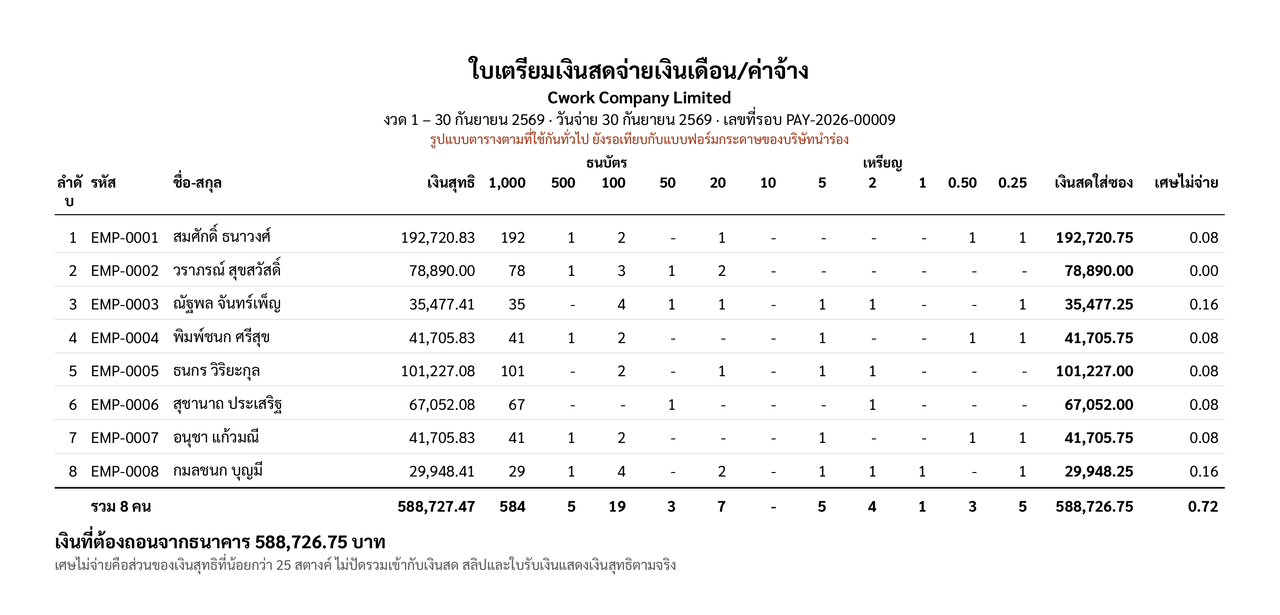
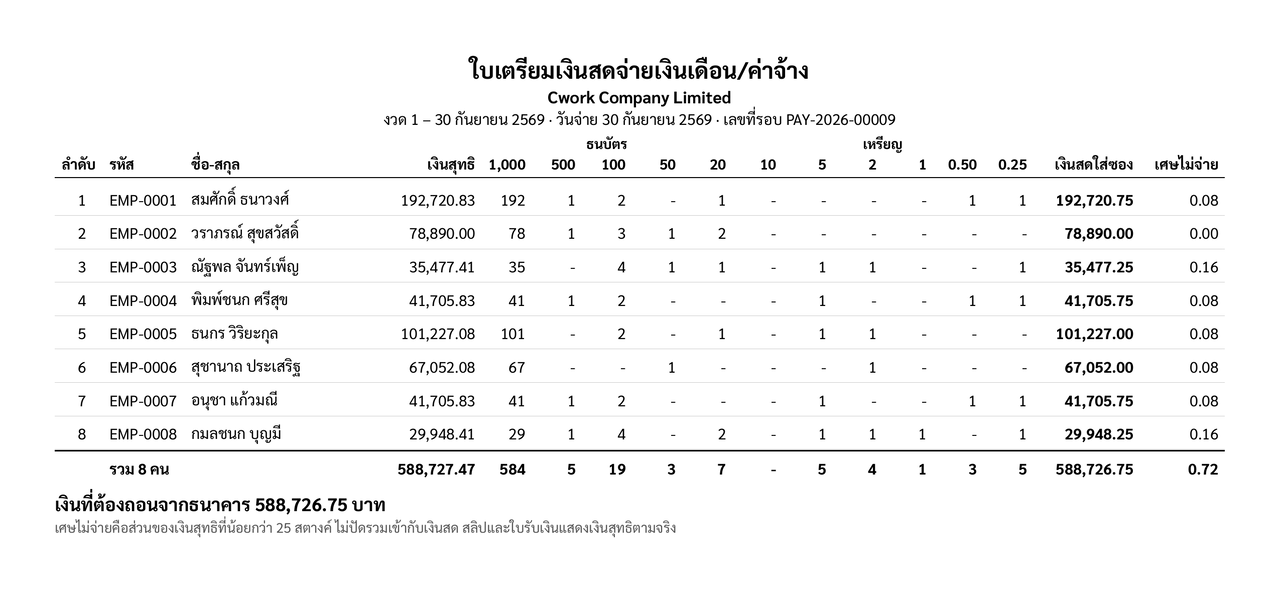
Finish what CW-096 left (CW-097)
- Retake the README's cash-sheet picture (Thai and English folders) now that
  the sheet carries no project note, and drop the sentence about the red
  line from both alt texts.
- Dark theme: danger buttons and the sidebar count use --text-inverse
  (4.5:1 or better in every theme); the contrast test covers them.
- Payroll warnings that send HR to the employee page name the card as the
  screen does, with a test that finds them by their English key.

Claude-Session: https://claude.ai/code/session_01A6A6oX85qwkQqRwjcjFy48

diff --git a/web/src/lib/i18n/messages.th.ts b/web/src/lib/i18n/messages.th.ts
@@ -444,13 +444,13 @@ export const thMessages: Record<string, string> = {
   'Whoever calculated this run cannot approve it. Another authorised person, such as the owner, signs in, opens this run and presses “Approve run”.':
     'ผู้ที่คำนวณรอบนี้อนุมัติเองไม่ได้ ให้ผู้มีสิทธิ์อีกคน เช่น เจ้าของกิจการ เข้าสู่ระบบ เปิดรอบนี้ แล้วกด “อนุมัติรอบ”',
   '{count} employee is not in this run because no pay is set for them from this period: {codes}. Set it on the employee’s page under Compensation, then calculate again.':
-    'มีพนักงาน {count} คนที่ไม่อยู่ในรอบนี้ เพราะยังไม่ได้ตั้งค่าจ้างตั้งแต่งวดนี้: {codes} ตั้งได้ที่หน้าพนักงาน หัวข้อค่าตอบแทน แล้วกดคำนวณอีกครั้ง',
+    'มีพนักงาน {count} คนที่ไม่อยู่ในรอบนี้ เพราะยังไม่ได้ตั้งค่าจ้างตั้งแต่งวดนี้: {codes} ตั้งได้ที่หน้าพนักงาน การ์ดค่าจ้าง แล้วกดคำนวณอีกครั้ง',
   '{count} employees are not in this run because no pay is set for them from this period: {codes}. Set it on each employee’s page under Compensation, then calculate again.':
-    'มีพนักงาน {count} คนที่ไม่อยู่ในรอบนี้ เพราะยังไม่ได้ตั้งค่าจ้างตั้งแต่งวดนี้: {codes} ตั้งได้ที่หน้าพนักงานแต่ละคน หัวข้อค่าตอบแทน แล้วกดคำนวณอีกครั้ง',
+    'มีพนักงาน {count} คนที่ไม่อยู่ในรอบนี้ เพราะยังไม่ได้ตั้งค่าจ้างตั้งแต่งวดนี้: {codes} ตั้งได้ที่หน้าพนักงานแต่ละคน การ์ดค่าจ้าง แล้วกดคำนวณอีกครั้ง',
   'Nobody is paid by the day for this period. A half-month period pays only employees with a daily wage; set it on the employee’s page under Compensation, then calculate again.':
-    'งวดนี้ไม่มีใครได้รับค่าจ้างรายวัน งวดครึ่งเดือนจ่ายเฉพาะพนักงานที่ตั้งค่าจ้างรายวันไว้ ตั้งได้ที่หน้าพนักงาน หัวข้อค่าตอบแทน แล้วกดคำนวณอีกครั้ง',
+    'งวดนี้ไม่มีใครได้รับค่าจ้างรายวัน งวดครึ่งเดือนจ่ายเฉพาะพนักงานที่ตั้งค่าจ้างรายวันไว้ ตั้งได้ที่หน้าพนักงาน การ์ดค่าจ้าง แล้วกดคำนวณอีกครั้ง',
   'Nobody has a monthly salary set for this period. Set it on the employee’s page under Compensation, then calculate again.':
-    'งวดนี้ยังไม่มีใครตั้งเงินเดือนไว้ ตั้งได้ที่หน้าพนักงาน หัวข้อค่าตอบแทน แล้วกดคำนวณอีกครั้ง',
+    'งวดนี้ยังไม่มีใครตั้งเงินเดือนไว้ ตั้งได้ที่หน้าพนักงาน การ์ดค่าจ้าง แล้วกดคำนวณอีกครั้ง',
   'Total deductions': 'รายการหักรวม',
   'Employer cost {amount}': 'ต้นทุนนายจ้าง {amount}',
   'Payslips ({count})': 'สลิปเงินเดือน ({count})',

diff --git a/web/src/lib/i18n/__tests__/i18n.test.tsx b/web/src/lib/i18n/__tests__/i18n.test.tsx
@@ -5,6 +5,7 @@ import { act, render, screen } from '@testing-library/react';
 import { afterEach, describe, expect, it } from 'vitest';
 import { formatMinutes, formatMoney, yearsOfService } from '@/lib/format';
 import { plural, translate } from '@/lib/i18n';
+import { thMessages } from '@/lib/i18n/messages.th';
 import { useT } from '@/lib/i18n/useT';
 import { useUiStore } from '@/stores/ui.store';
 
@@ -86,5 +87,21 @@ describe('useT', () => {
       useUiStore.getState().setLanguage('en');
     });
     expect(screen.getByTestId('label')).toHaveTextContent('Sign out');
+  });
+});
+
+describe('payroll warnings that send HR to the pay card (CW-097)', () => {
+  const sendsToCard = Object.entries(thMessages).filter(([english]) =>
+    /page under Compensation/.test(english),
+  );
+
+  it('finds the four warnings, so the check below is not empty', () => {
+    expect(sendsToCard).toHaveLength(4);
+  });
+
+  it.each(sendsToCard)('names the card as the employee page does, in "%s"', (_english, thai) => {
+    // The card is titled "Pay" (ค่าจ้าง); "ค่าตอบแทน" is only the sidebar group.
+    expect(thai).toContain(thMessages['Pay']);
+    expect(thai).not.toContain('ค่าตอบแทน');
   });
 });

diff --git a/web/src/styles/__tests__/theme.test.ts b/web/src/styles/__tests__/theme.test.ts
@@ -71,11 +71,22 @@ describe('text on the brand colour', () => {
     }
   });
 
+  it('reads at 4.5:1 or better on the red fills too, in every theme (CW-097: 2.8:1 in the dark one)', () => {
+    const danger = pairs('danger');
+    const inverse = pairs('text-inverse');
+    expect([danger.length, inverse.length]).toEqual([3, 3]);
+    for (let theme = 0; theme < 3; theme++) {
+      expect(contrast(inverse[theme], danger[theme])).toBeGreaterThanOrEqual(4.5);
+    }
+  });
+
   it.each([
     '.btn--primary',
     '.sidebar__logo',
     ".date-input__day[aria-pressed='true']",
     '.chat__bubble--user',
+    '.btn--danger',
+    '.nav-link__badge',
   ])('is set from --text-inverse, not a fixed white, on %s', (selector) => {
     expect(declarations(selector)).toMatch(/color:\s*var\(--text-inverse\)/);
   });

diff --git a/web/src/styles/app.css b/web/src/styles/app.css
@@ -165,7 +165,7 @@ p { margin: 0 0 8px; }
 .nav-link__badge {
   margin-left: auto;
   background: var(--danger);
-  color: #fff;
+  color: var(--text-inverse);
   border-radius: 999px;
   font-size: 11px;
   font-weight: 600;
@@ -478,7 +478,7 @@ table.table {
 }
 .btn--danger {
   background: var(--danger);
-  color: #fff;
+  color: var(--text-inverse);
 }
 .btn--danger:hover:not(:disabled) {
   filter: brightness(0.92);

diff --git a/backend/scripts/verify-doc-counts.ts b/backend/scripts/verify-doc-counts.ts
@@ -54,7 +54,7 @@ const counts: Record<string, number> = {
 
   // Measured by the `web`, `mobile` and `backend` jobs in ci.yml respectively.
   // Update here, not in the prose: that is the whole point of this file.
-  web: 313,
+  web: 321,
   mobile: 101,
   e2e: 447,
 };

diff --git a/docs/handoff/DEV.md b/docs/handoff/DEV.md
@@ -6,28 +6,25 @@ this file only says where the dev room stands.
 
 ## Where things are
 
-- On `main`: everything up to #111 (CW-095, the department filter that no longer asks
-  `/departments` without `org:read`).
-- **On branch `claude/new-session-syszvt`, restarted from main `43820ee` (CW-096, pushed, the PO
-  opens the PR):** the four QA pass 2 issues in one branch, in the PO's order.
-  1. #114 cash sheet: the red pilot note is gone from `cash-sheet.ts` and the renderer (and from the
-     printing guide's wording); the "ลำดับ" column is 36 pt, and a renderer test measures every
-     heading with the real font so none breaks.
-  2. #113 dark primary buttons: text on `--brand` fills (`.btn--primary`, `.sidebar__logo`, the
-     date-input day, the user chat bubble) uses `--text-inverse`, white in light and `#0f1116` in
-     dark (7.2:1; hover 9:1). `styles/__tests__/theme.test.ts` checks the ratio of each theme's
-     pair and that those four rules use the token.
-  3. #112 scanner errors in Thai: `web/src/lib/api-messages.ts` maps the scanner flow's codes to
-     message keys, filled from the error's `details`; both scanner pages use it. The backend now
-     sends `{employeeCode, scannerNumber}` for `EMPLOYEE_HAS_SCANNER_NUMBER` and
-     `DUPLICATE_SCANNER_ID`, and `max` for `RANGE_NOT_SUPPORTED` (e2e checks the first).
-  4. #115 `ErrorState` draws the new `alert` icon; guide task 3 says card "ค่าจ้าง" and the button
-     "เปลี่ยนค่าจ้าง" when pay exists.
-- Not touched, and worth the PO's eye: the danger button and the nav badge are also white on a light
-  fill in the dark theme (about 2.8:1); and a few Thai warnings in `messages.th.ts` (payroll run
-  messages) still send HR to "หัวข้อค่าตอบแทน" on the employee page, where the card is called
-  "ค่าจ้าง".
-- Counts: web 313, backend unit 788 (README, README.th, `docs/spec.md`, `verify-doc-counts.ts`).
+- On `main`: everything up to #117 (CW-096: the cash-sheet note and column, dark primary buttons,
+  Thai scanner errors, the error icon and the guide's pay-card words).
+- **On branch `claude/new-session-syszvt`, restarted from main `4b78ff0` (CW-097, pushed, the PO
+  opens the PR):**
+  1. README picture: `docs/screenshots/28-cash-sheet.png` and `en/28-cash-sheet.png` retaken with
+     `capture-office.mjs` on a freshly seeded throwaway database (synthetic data, no red note,
+     "ลำดับ" on one line, checked by eye); the red-line sentence is out of both alt texts. The
+     script also rewrote the expiring-documents pictures and the landing's webp files; those were
+     put back, so only the two cash-sheet files changed.
+  2. Dark theme red: `.btn--danger` and `.nav-link__badge` take `--text-inverse` (6.7:1 on the dark
+     red); light unchanged. `styles/__tests__/theme.test.ts` checks the ratio for the red too and
+     that both rules use the token.
+  3. The four payroll warnings now say "การ์ดค่าจ้าง" (`messages.th.ts`); an i18n test finds them by
+     their English key and fails if a Thai one drops the card's title or says "ค่าตอบแทน" again.
+- Counts: web 321 (README, README.th, `docs/spec.md`, `verify-doc-counts.ts`); backend unit 788.
+- **Not touched, for the PO:** the landing still shows the old cash-sheet picture
+  (`landing/assets/shots/cash-sheet.{th,en}.webp`) and its two alt texts still mention the red line.
+  The picture is stale, the alt texts are public wording, so both wait for the owner. The English
+  versions of the four warnings still say "under Compensation" (the English card is titled "Pay").
 - **Not built, by the PO's decision:** pinned footer / 36 px rows of CW-091 and the "Report a
   problem" icon of CW-092 (direction B removes the left menu, built after the Pilot A install).
 - Waiting on others: CW-066's two owner items (a real HR person doing the four jobs before
@@ -36,6 +33,6 @@ this file only says where the dev room stands.
 
 ## Next
 
-- PO opens the CW-096 PR, reviews and merges; QA retests the four issues. Do not start CW-094
-  (direction B, after the Pilot A install), CW-085's upload file, CW-080 or CW-086, nor the
-  support-scope page. Do not touch the real NAS until the owner approves.
+- PO opens the CW-097 PR, reviews and merges. Do not start CW-094 (direction B, after the Pilot A
+  install), CW-085's upload file, CW-080 or CW-086, nor the support-scope page. Do not touch the
+  real NAS until the owner approves.

diff --git a/README.md b/README.md
@@ -83,7 +83,7 @@ every figure and name on this page is synthetic.</sub>
   or four to an A4 sheet, with a wage-receipt sheet to sign.
   [Guide (Thai)](./docs/guide/printing-payslips.th.md)
 
-  <img src="./docs/screenshots/en/28-cash-sheet.png" alt="Page one of the cash-preparation sheet for a month: for each employee the net pay and how many notes and coins of each kind, the total to withdraw from the bank and the remainder under 25 satang. The sheet is printed in Thai, and a red line on it says its table layout is still waiting to be compared with a real paper form" width="780">
+  <img src="./docs/screenshots/en/28-cash-sheet.png" alt="Page one of the cash-preparation sheet for a month: for each employee the net pay and how many notes and coins of each kind, the total to withdraw from the bank and the remainder under 25 satang. The sheet is printed in Thai" width="780">
 
 - **A file for the outside accountant, and a check against what was filed.** An
   approved or paid period exports with each person's tax ID and income type,
@@ -693,7 +693,7 @@ means a new rule set and that translation pass, not a rewrite.
 ## Status
 
 Working and verified end to end — sign-in through payroll. 788 backend unit
-tests, 313 web, 101 mobile, plus a 447-check end-to-end suite that drives the real
+tests, 321 web, 101 mobile, plus a 447-check end-to-end suite that drives the real
 API over HTTP in CI, and the console exercised in a real browser against the live
 API.
 
@@ -752,7 +752,7 @@ that record is the point.
 
 What it implies about review:
 
-- Every suite passes, in CI, on every push — 788 backend unit tests, 313 web,
+- Every suite passes, in CI, on every push — 788 backend unit tests, 321 web,
   101 mobile, 447 end-to-end checks against the real API over HTTP.
 - The decisions are documented and the reasoning is recoverable.
 - **No independent human has read every line.** Tests passing and a design

diff --git a/CHANGELOG.md b/CHANGELOG.md
@@ -779,6 +779,14 @@ entry, tags it and publishes the notes.
   page of the employee list returns); anyone who can read the organisation still
   gets every department, as before. No role gained or lost a permission.
 
+- **What CW-096 left** (CW-097). In the dark theme the danger buttons and the
+  sidebar's red count are dark on the light red (6.7:1) instead of white on it
+  (2.8:1); the light theme is unchanged. The four payroll warnings that send HR
+  to the employee page now name the card the way the screen does, "ค่าจ้าง", not
+  the sidebar group "ค่าตอบแทน". The README's cash-sheet picture is retaken, so it
+  no longer shows the red note CW-096 removed, and the picture's description no
+  longer mentions it.
+
 - **Four things the second QA pass found** (CW-096). The cash-preparation sheet no
   longer prints the project's red note about the pilot company's paper form, and
   its first column heading "ลำดับ" stays on one line. In the dark theme the text

diff --git a/docs/spec.md b/docs/spec.md
@@ -763,7 +763,7 @@ organisation sets `settings.security.requireMfa` for everyone. See CW-021 in the
 
 | | |
 |---|---|
-| **Correctness** | Business rules are pure functions in `domain/` with no I/O, unit-tested: 788 backend, 313 web, 101 mobile. A 447-check e2e suite drives the real API over HTTP and runs in CI. |
+| **Correctness** | Business rules are pure functions in `domain/` with no I/O, unit-tested: 788 backend, 321 web, 101 mobile. A 447-check e2e suite drives the real API over HTTP and runs in CI. |
 | **Money** | `Decimal(18,4)` everywhere. Never a float. |
 | **Dates** | `@db.Date` for calendar values, timestamps for instants. Organisation timezone defaults to Asia/Bangkok. |
 | **Configuration** | Validated at boot and the process **refuses to start** on a bad or missing secret. |
